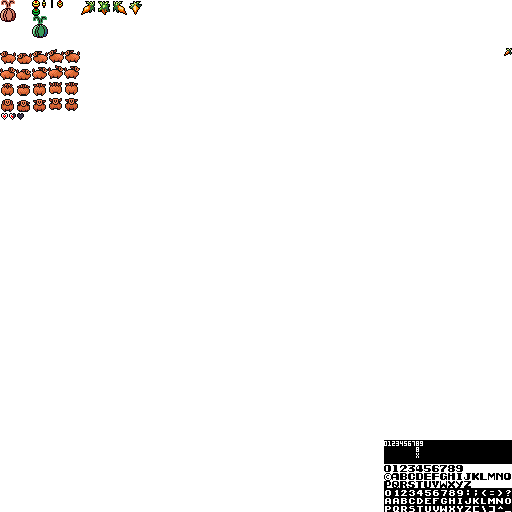
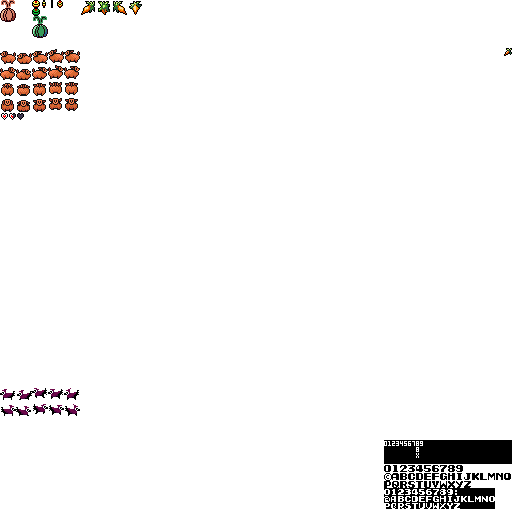
Add files via upload

Changed region(s): [[0.75, 0.9375, 1.0, 1.0], [0.0, 0.75, 0.1562, 0.8125]]

diff --git a/Enemy.js b/Enemy.js
@@ -1,0 +1,97 @@
+class Enemy extends MovingSprite {
+	constructor() {
+		super();
+		this.type = "enemy";
+	}
+	
+
+}
+
+
+class JumpingKaidi extends Enemy {
+	constructor(x,y) {
+		super();
+		this.setSize(16,12);
+		this.moveTo(x,y);
+		this.heading = -1; //left
+		this.speed = 2;
+		this.addAnimation("jump_left",0,388,16,12,5,2);
+		this.addAnimation("jump_right",0,404,16,12,5,2);
+		this.addCostume("stand_left",0,388,16,12);
+		this.addCostume("stand_right",0,404,16,12);
+		this.setAnimation("jump_left");
+	}
+	changeDirection = function() {
+		if (this.heading == -1 && this.x <=2) {
+			this.heading = 1;
+			this.setAnimation("jump_right");
+		} else if (this.heading == 1 && this.x > game.window.width - 2 - this.width) {
+			this.heading = -1;
+			this.setAnimation("jump_left");
+		}
+	}
+	
+	process = function() {
+		this.tick();
+		if ((this.animations[this.animationActive].name.includes("jump")) && (this.currentFrame == 2 || this.currentFrame == 3)) {
+			this.xv = this.speed * this.heading;
+			
+		} else {
+			this.xv = 0;
+		}
+		
+		this.changeDirection();
+		this.moveTo(this.x + this.xv,this.y + this.yv);
+	}
+}
+
+
+
+
+
+
+
+
+
+
+
+
+
+
+
+
+
+class Enemies {
+	constructor()
+	{
+		this.enemies = [];
+	}
+	
+	addEnemy = function(enemy)
+	{
+		this.enemies.push(enemy);
+	}
+	
+	clear = function()
+	{
+		this.enemies = [];
+	}
+	
+	
+	process = function()
+	{
+		for (let i = 0; i < this.enemies.length; i++) {
+			this.enemies[i].process();
+		}
+	}
+	
+	
+	draw = function()
+	{
+		for (let i = 0; i < this.enemies.length; i++) {
+			this.enemies[i].draw();
+		}
+	}
+}
+
+var enemies = new Enemies();

diff --git a/player.js b/player.js
@@ -9,7 +9,9 @@ class Player extends MovingSprite {
 		this.speed = 2;
 		this.size = 1;
 		this.setHP(3,3);
-		//this.flipsHorizontally = true;
+		this.hitbox.tly = 4;
+		this.hitbox.height = 12;
+		// ANIMATIONS ///////////////////////////////////////
 		this.addCostume("left_walk_0",0,48,16,16);
 		this.addCostume("right_walk_0",0,64,16,16);
 		this.addCostume("up_walk_0",0,80,16,16);
@@ -19,6 +21,7 @@ class Player extends MovingSprite {
 		this.addAnimation("up_walk",16,80,16,16,4,2);
 		this.addAnimation("down_walk",16,96,16,16,4,2);
 		this.setCurrentCostume("right_walk_0");
+		
 	}
 	
 	keyInput = function () {

diff --git a/main.js b/main.js
@@ -17,6 +17,7 @@ function init() {
 		case "game":
 			coins.addCoin(new Coin(200,100,1));
 			coins.addCoin(new Coin(24,150,1));
+			enemies.addEnemy(new JumpingKaidi(240,100));
 			//addAtlas("onion",0,0,16,32);
 			addAtlas("onion_green",32,16,16,32);
 			UI.init();
@@ -35,6 +36,7 @@ function process() {
 			player.process();
 			coins.process();
 			collisions.process();
+			enemies.process();
 			break;
 	}
 
@@ -49,6 +51,7 @@ function draw() {
 			
 			break;
 		case "game":
+			enemies.draw();
 			drawImgFromAtlas("onion_green",0,50);
 			drawImgFromAtlas("onion_green",mouseX,mouseY);
 			player.draw();

diff --git a/sprites.js b/sprites.js
@@ -18,6 +18,8 @@ class Sprite { //an assumption this class makes is that all costumes will be the
 	animationActive = -1;
 	canLeaveScreen = false;
 	animations = [];
+	hitbox = {"tly":this.y,"w":this.width,"h":this.height}; //used so that the player's head can peep in front of walls sometimes
+	
 	constructor() {
 		
 	}
@@ -30,6 +32,11 @@ class Sprite { //an assumption this class makes is that all costumes will be the
 		this.x = newX;
 		this.y = newY;
 	};
+	
+	setSize = function(w,h) {
+		this.width = w;
+		this.height = h;
+	}
 	
 	setDir = function(newDeg) {
 		this.direction = newDeg;

diff --git a/TextHandler.js b/TextHandler.js
@@ -4,10 +4,10 @@ class TextHandler {
 	constructor() {
 		this.fontSize = 1;	
 		this.tileHeight = 8; //height in px of the spritesheet tile
-		this.tileWidth = 8;
+		this.tileWidth = 7;
 		this.fontInfo = [];
 		this.currentFont = "whiteText";
-		this.addFont(384,488,"whiteText",8,8);
+		this.addFont(384,488,"whiteText",7,7);
 		this.addFont(384,440,"white4x6",4,6);
 		
 	}

diff --git a/TileAndLevel.js b/TileAndLevel.js
@@ -1,0 +1,17 @@
+var levelData = [
+
+
+
+
+
+];
+
+class Tile extends Sprite{
+	
+}
+
+class Level {
+	constructor(world,level) { //worlds = spaces currently in use. A single dungeon, overworld map, cave system, etc. Levels = screens.
+		this.currentLevel = levelData[world][level];
+	}
+}

diff --git a/Coin.js b/Coin.js
@@ -2,8 +2,7 @@ class Coin extends Sprite {
 	constructor(x,y,value) {
 		super();
 		this.moveTo(x,y);
-		this.width = 16;
-		this.height = 16;
+		this.setSize(16,16);
 		this.value = value;
 		this.addAnimation("coin_spin",80,0,16,16,4,3);
 		this.addCostume("default",80,0,16,16);

diff --git a/index.html b/index.html
@@ -39,6 +39,8 @@
 	
 	
 	<!--Parts of the game-->
+	<script src="TileAndLevel.js"></script>
+	<script src="Enemy.js"></script>
 	<script src="player.js"></script>
 	<script src="Coin.js"></script>
 	<script src="UI.js"></script>

diff --git a/CollisionHandler.js b/CollisionHandler.js
@@ -13,6 +13,8 @@ class CollisionHandler {
 		}
 	}
 	
+	
+	
 	process = function() {
 		this.playerCoin();
 	}
